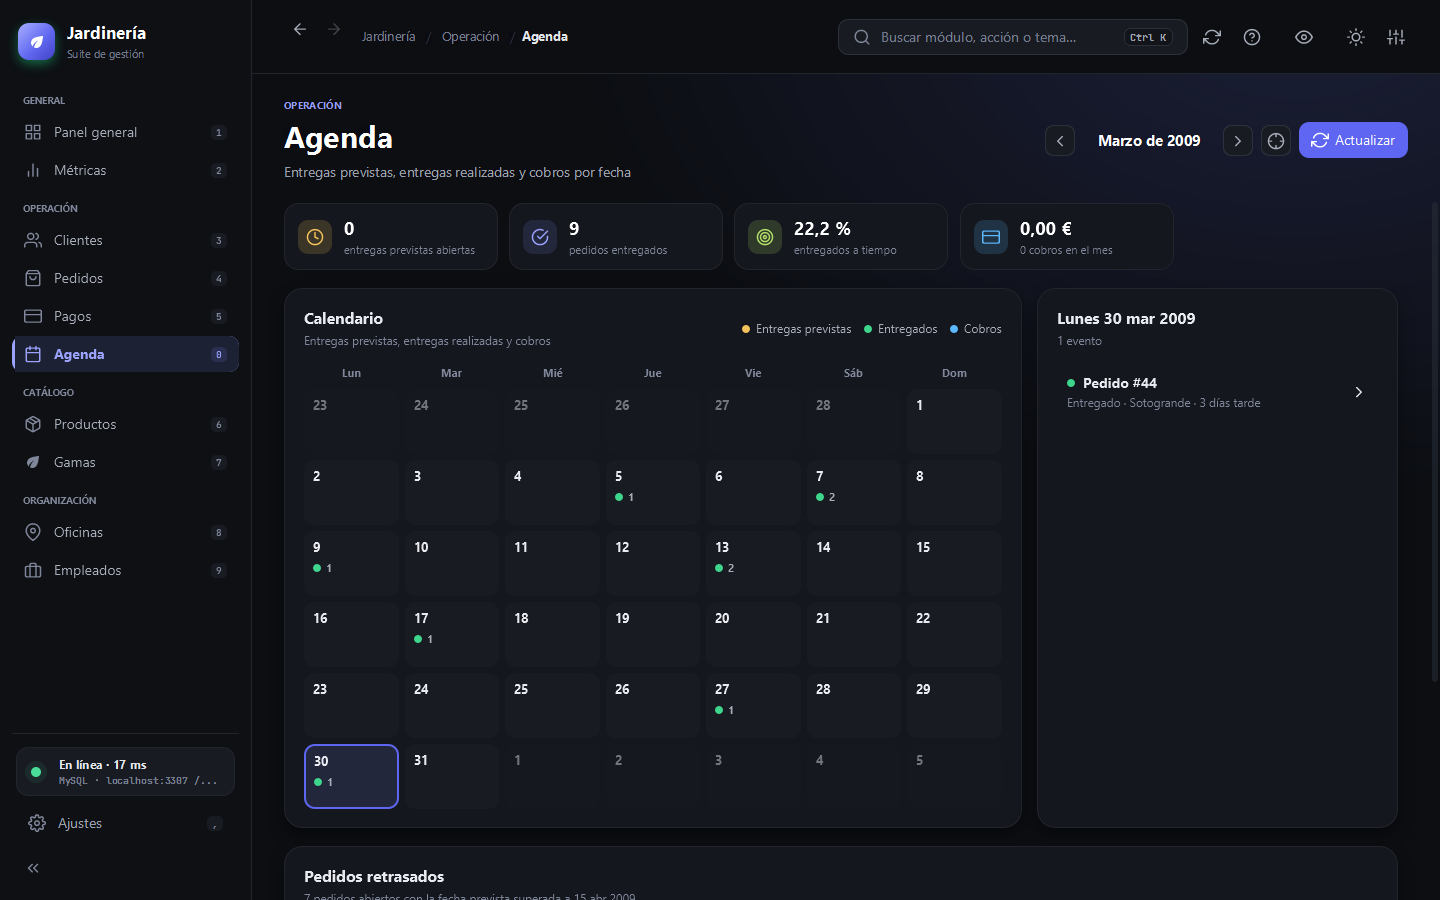
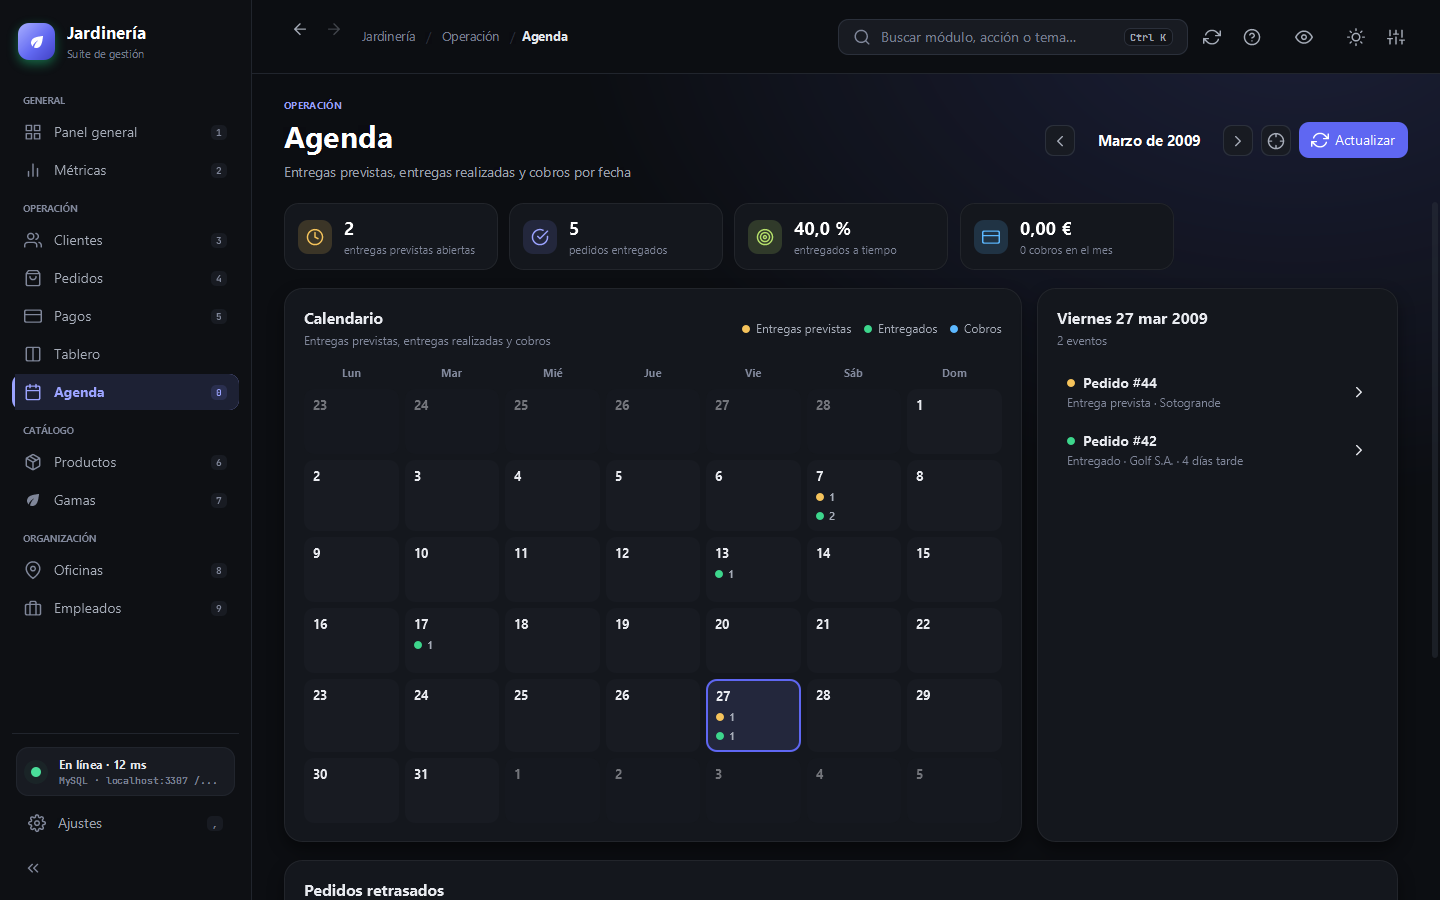
📝 docs: tablero de pedidos y capturas de la Agenda actualizadas
- README:
  - captura y fila del Tablero en la tabla de módulos;
  - prueba BoardViewTest;
  - paquete views/board.
- CAPTURAS: tablero en tema oscuro. Se regeneran las imágenes de la Agenda
  tras el arreglo de los pedidos abiertos.
- ARQUITECTURA: paquete board en el árbol de la GUI.
- AGENTS: el estado del pedido manda sobre la fecha de entrega, y los
  cambios de estado se confirman con ModalHost.confirm.

Claude-Session: https://claude.ai/code/session_01Mb6BVtjirwo5Ure4fDwMmK

diff --git a/README.md b/README.md
@@ -13,6 +13,8 @@ Aplicación de escritorio en **Java 21 + JavaFX** para gestionar la base de dato
 | ![Métricas](docs/img/analytics-dark.png) | ![Ficha de cliente](docs/img/clientes-detalle.png) |
 | **Agenda** | **Organigrama en la ficha de empleado** |
 | ![Agenda](docs/img/agenda-dark.png) | ![Organigrama](docs/img/empleados-organigrama.png) |
+| **Tablero de pedidos** | |
+| ![Tablero Kanban](docs/img/tablero-dark.png) | |
 | **Alta de pedido** | **Pedidos (tema claro)** |
 | ![Formulario](docs/img/pedidos-formulario.png) | ![Pedidos en tema claro](docs/img/pedidos-light.png) |
 
@@ -73,6 +75,7 @@ docker exec -i jardineria-mysql mysql -uroot -ppassword --default-character-set=
 | **Métricas** | Filtro por año, ventas frente a cobros (gráfico de áreas con cursor), pedidos por mes y estado, ticket medio, tasa de rechazo, distribución por gama, país y forma de pago, ranking de clientes y exportación CSV. Las gamas, los países y los clientes llevan a su módulo filtrado. |
 | **Clientes** | Avatar con iniciales en cada fila, búsqueda sin tildes, filtro por país y ficha lateral con contacto, representante, crédito usado frente al límite y últimos pedidos y pagos. |
 | **Pedidos** | Filtro por estado, cronología con aviso de retraso, cambio rápido de estado y gestión de líneas (el alta descuenta stock). |
+| **Tablero** | Kanban de pedidos con una columna por estado. Se cambia el estado arrastrando la tarjeta o con las flechas izquierda y derecha, siempre con confirmación; `Intro` abre el pedido. Filtro por código o cliente. |
 | **Agenda** | Calendario mensual de entregas previstas, entregas realizadas y cobros; cifras del mes (puntualidad e importe cobrado), detalle del día y pedidos retrasados. Se maneja con las flechas y cada pedido o cobro abre su módulo filtrado. Sin tablas nuevas. |
 | **Empleados** | Avatar en cada fila y ficha lateral como **organigrama navegable**: cadena de mando hasta dirección, equipo directo, personas a cargo y clientes asignados. |
 | **Pagos, Productos, Gamas, Oficinas, Empleados** | CRUD con validación inline (claves repetidas, importes y stock no negativos, fechas coherentes, cantidad de una línea ≤ stock disponible), filtros propios (forma de pago, gama, oficina, stock crítico) y resumen superior. |
@@ -152,7 +155,7 @@ src/main/java/com/jardineria
     └── adapter/in/
         ├── common/    Formatters (compartido por GUI y CLI)
         ├── cli/
-        └── desktop/   shell · navigation · theme · support · components(/form) · views/{dashboard,analytics,agenda,crud,modules,settings}
+        └── desktop/   shell · navigation · theme · support · components(/form) · views/{dashboard,analytics,agenda,board,crud,modules,settings}
 ```
 
 ### Patrones de diseño
@@ -189,6 +192,7 @@ En la GUI también se aplican **Template Method** (`BaseView`, `CrudModuleView`)
 | `DesktopSmokeTest` | La GUI completa sin base de datos: todas las rutas en ambos temas y los 7 formularios, sin errores |
 | `NavigationRevealTest` | Navegación contextual: abrir Pedidos filtrado por código o por estado y con la fila correcta seleccionada |
 | `OrgChartTest` | Ficha de empleado: cadena de mando, equipo directo y navegación entre personas con el teclado |
+| `BoardViewTest` | Tablero: agrupación por estado, columnas vecinas y cambio de estado con teclado y confirmación |
 | `AgendaModelTest`, `AvatarTest` | Agenda (fecha de referencia, agrupación por día, retrasos, puntualidad) e iniciales y tonos de los avatares |
 | `FormattersTest`, `SeriesTest`, `CsvExportTest` | Formato es-ES, series temporales y CSV RFC 4180 |
 | `AppearanceProfileTest` | Perfiles de apariencia: límites, serialización tolerante y predefinidos |

diff --git a/AGENTS.md b/AGENTS.md
@@ -31,6 +31,7 @@ Contexto operativo para cualquier agente (Claude, Cursor, Copilot…) que modifi
 - **Registro**: cada ruta de `navigation.Route` se registra en `views.DesktopViews.registerAll`. Una ruta nueva necesita entrada en el enum, vista y registro.
 - **Navegación contextual**: para abrir un módulo con un elemento concreto usa `Navigator.navigate(ruta, consulta)`; la vista lo recibe en `View.reveal`. Los elementos clicables que no son botones se preparan con `Interactions.activatable` (foco, rol de botón, clic, `Enter` y `Espacio`).
 - **Personas**: el avatar con iniciales es `components.Avatar` (tono estable por código). En tablas usa `CrudModuleView.personColumn`; no dupliques la lógica de iniciales.
+- **Estado de un pedido**: manda `estado`, no `fecha_entrega` (los datos de ejemplo tienen pendientes y rechazados con fecha de entrega). Los cambios de estado pasan por `PedidoUseCase.cambiarEstado` y se confirman con `ModalHost.confirm`.
 - **Agenda**: los eventos salen de pedidos y pagos en `AgendaModel` (lógica pura, con pruebas). La fecha de referencia es el último pedido o cobro si es anterior a hoy; no la calcules con fechas de entrega.
 - **Validación**: las reglas de formulario van con `FormField.rule`; para claves de altas usa `CrudModuleView.uniqueKey`. La capa de aplicación vuelve a validar al guardar.
 - **Estilos**: solo CSS. `ThemeManager` aplica, por este orden, Primer (AtlantaFX), `css/themes/<tema>.css` (superficies y texto), `css/accents.css` (acento por modo, `.theme-dark.accent-*` / `.theme-light.accent-*`) y `css/app.css` (componentes), más clases en la raíz (`theme-*`, `accent-*`, `density-*`, `corners-*`, `ambient-off`). Los colores salen de variables (`-color-*`, `-jd-*`, `.tone-*`), nunca de valores fijos en Java, salvo los datos que traen su propio color (los hex del flyweight). Un tema nuevo necesita entrada en `ThemePreset` y su CSS; un acento nuevo, entrada en `Accent` y sus dos bloques en `accents.css`. Detalle en `docs/APARIENCIA.md`.

diff --git a/docs/ARQUITECTURA.md b/docs/ARQUITECTURA.md
@@ -216,5 +216,5 @@ src/main/java/com/jardineria
             ├── theme/       ThemeManager · ThemePreset · Accent · AppearanceProfile · ProfileStore
             ├── support/     Motion · Icons · Interactions · Keys · Series · CsvExport · FxTasks · ModalHost · Notifier
             ├── components/  KpiCard · AreaTrendChart · ActivityHeatmap · Treemap · DonutChart · Sparkline · ResponsiveGrid · form/ …
-            └── views/       dashboard · analytics · agenda · crud · modules · settings
+            └── views/       dashboard · analytics · agenda · board · crud · modules · settings
 ```

diff --git a/docs/CAPTURAS.md b/docs/CAPTURAS.md
@@ -46,7 +46,7 @@ Si MySQL no está disponible, ambas clases se omiten (`assumeTrue`) en lugar de 
 | ![](img/clientes-detalle.png) | ![](img/pedidos-formulario.png) |
 | **Agenda** | **Pedidos retrasados (claro)** |
 | ![](img/agenda-dark.png) | ![](img/agenda-retrasos-light.png) |
-| **Organigrama (ficha de empleado)** | |
-| ![](img/empleados-organigrama.png) | |
+| **Organigrama (ficha de empleado)** | **Tablero de pedidos** |
+| ![](img/empleados-organigrama.png) | ![](img/tablero-dark.png) |
 | **Ventana mínima (1100×720)** | **Ajustes (parte inferior)** |
 | ![](img/ventana-minima.png) | ![](img/ajustes-dark-bottom.png) |
